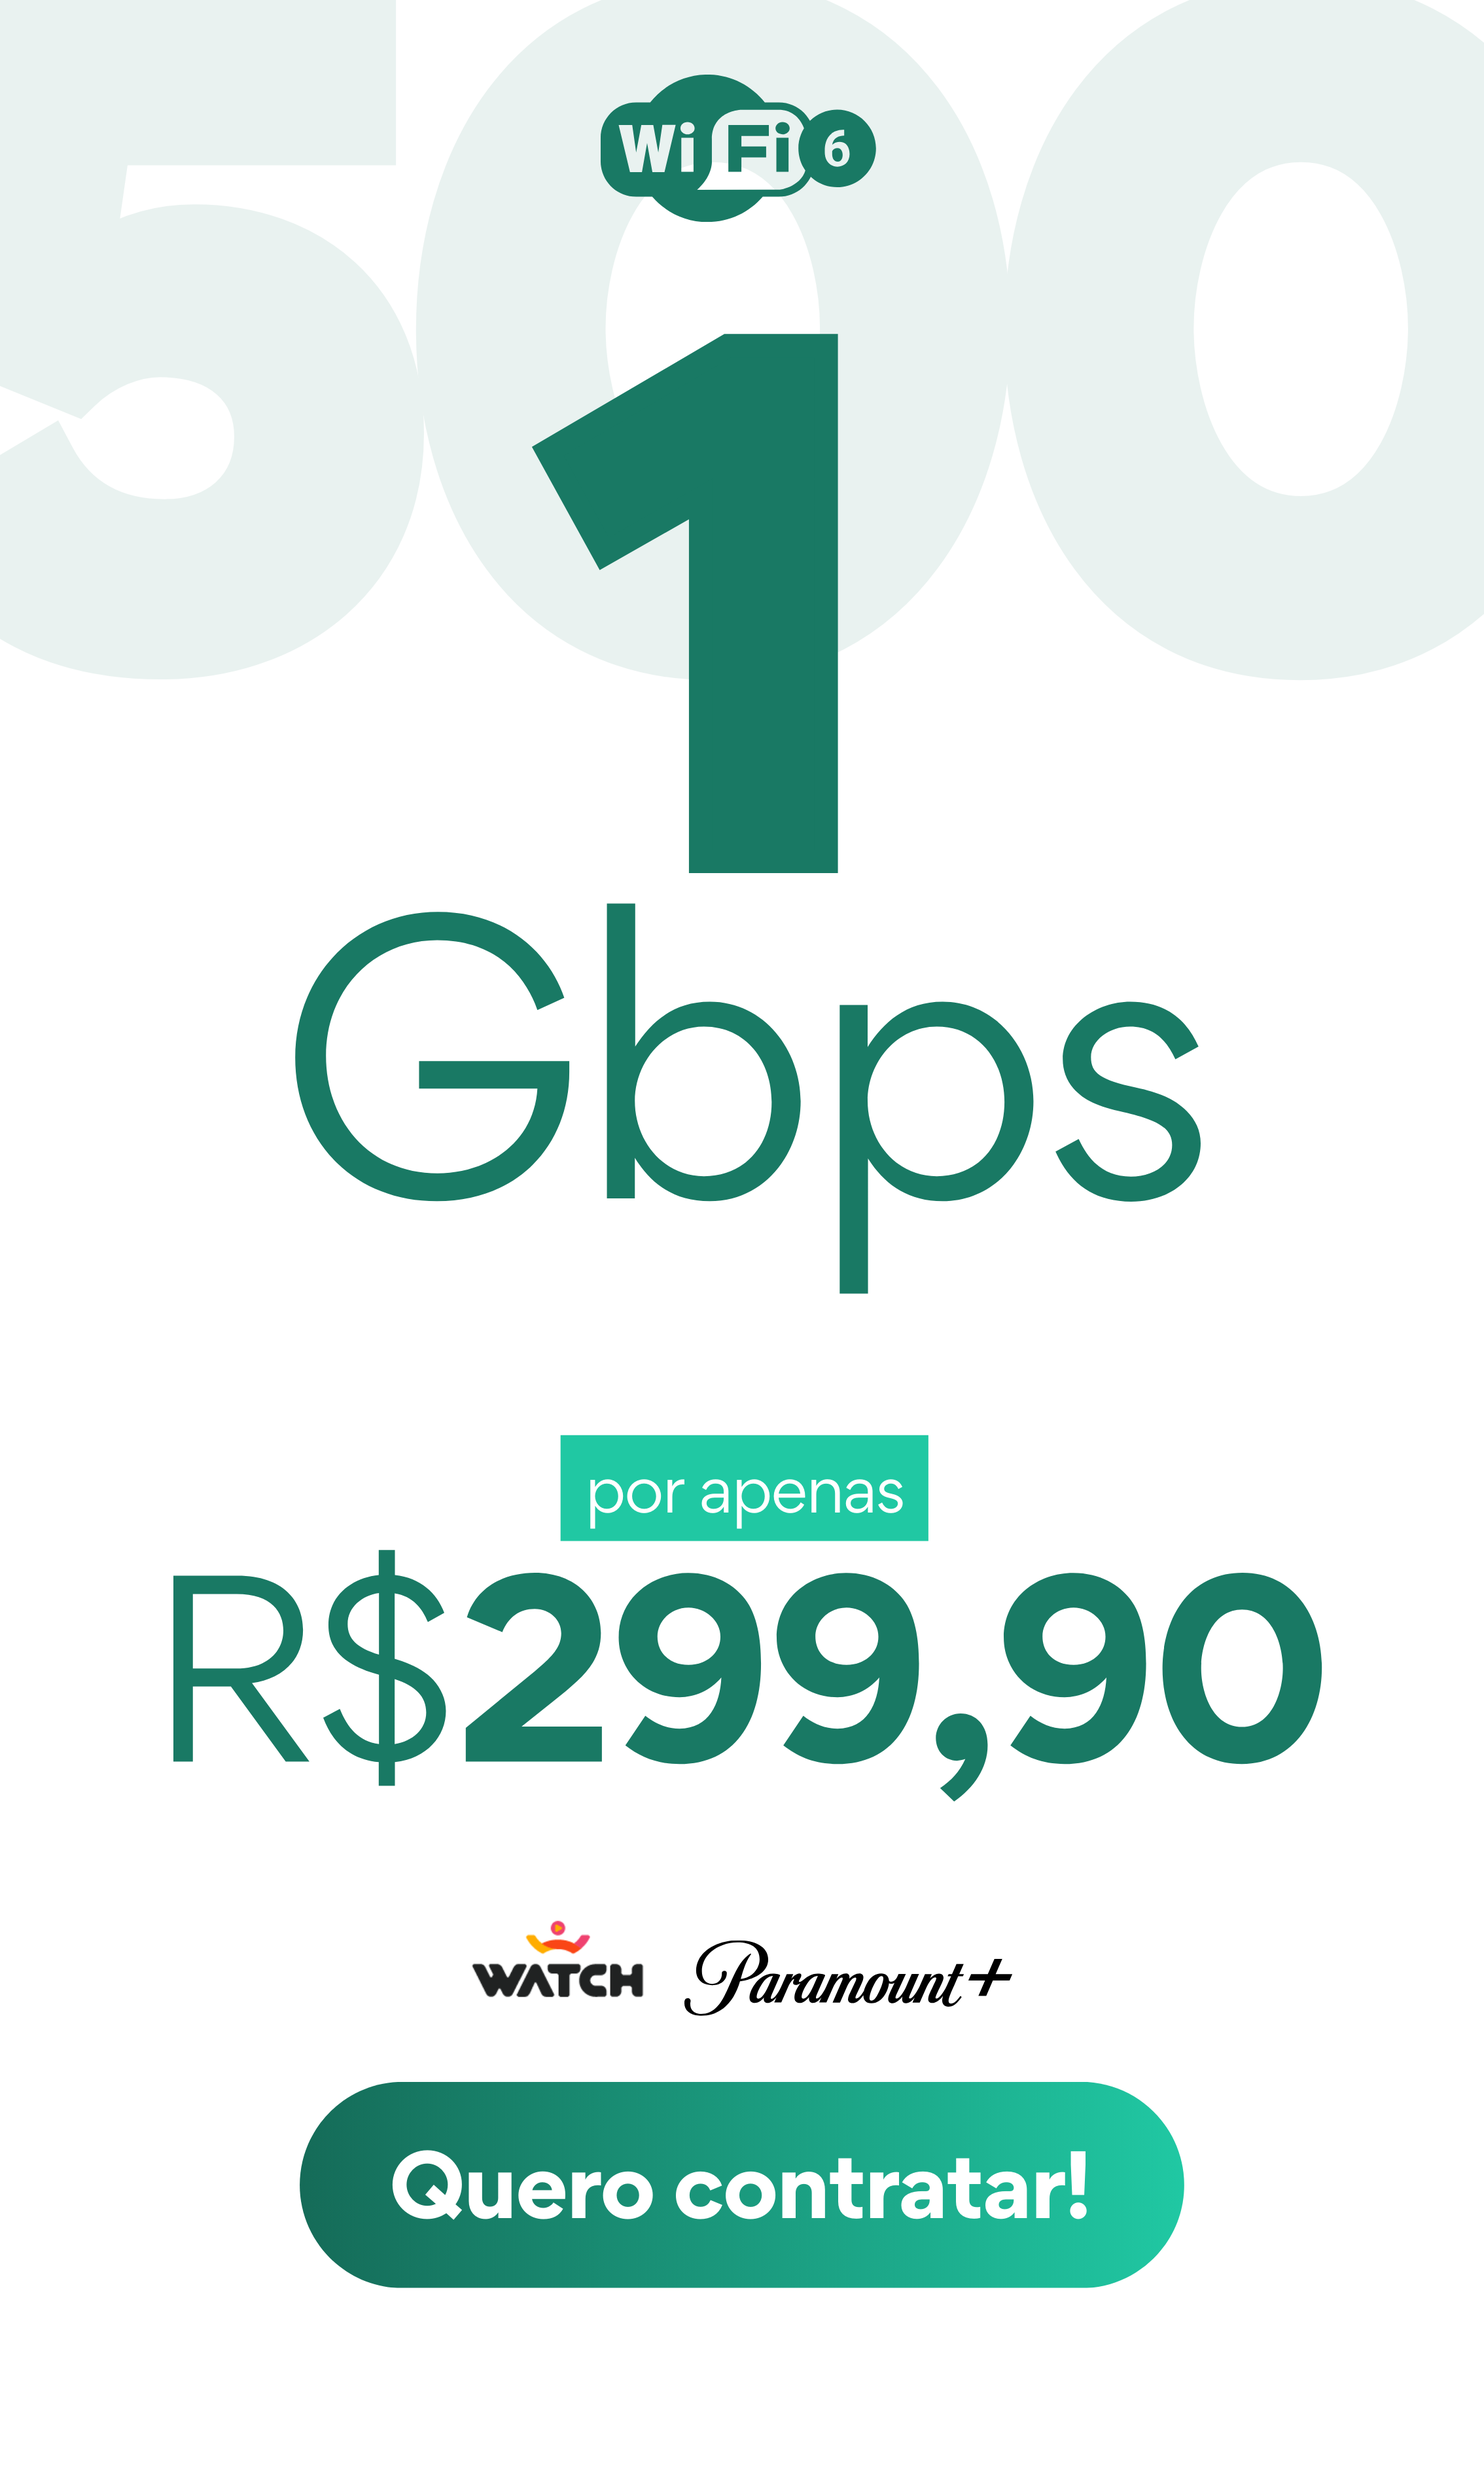
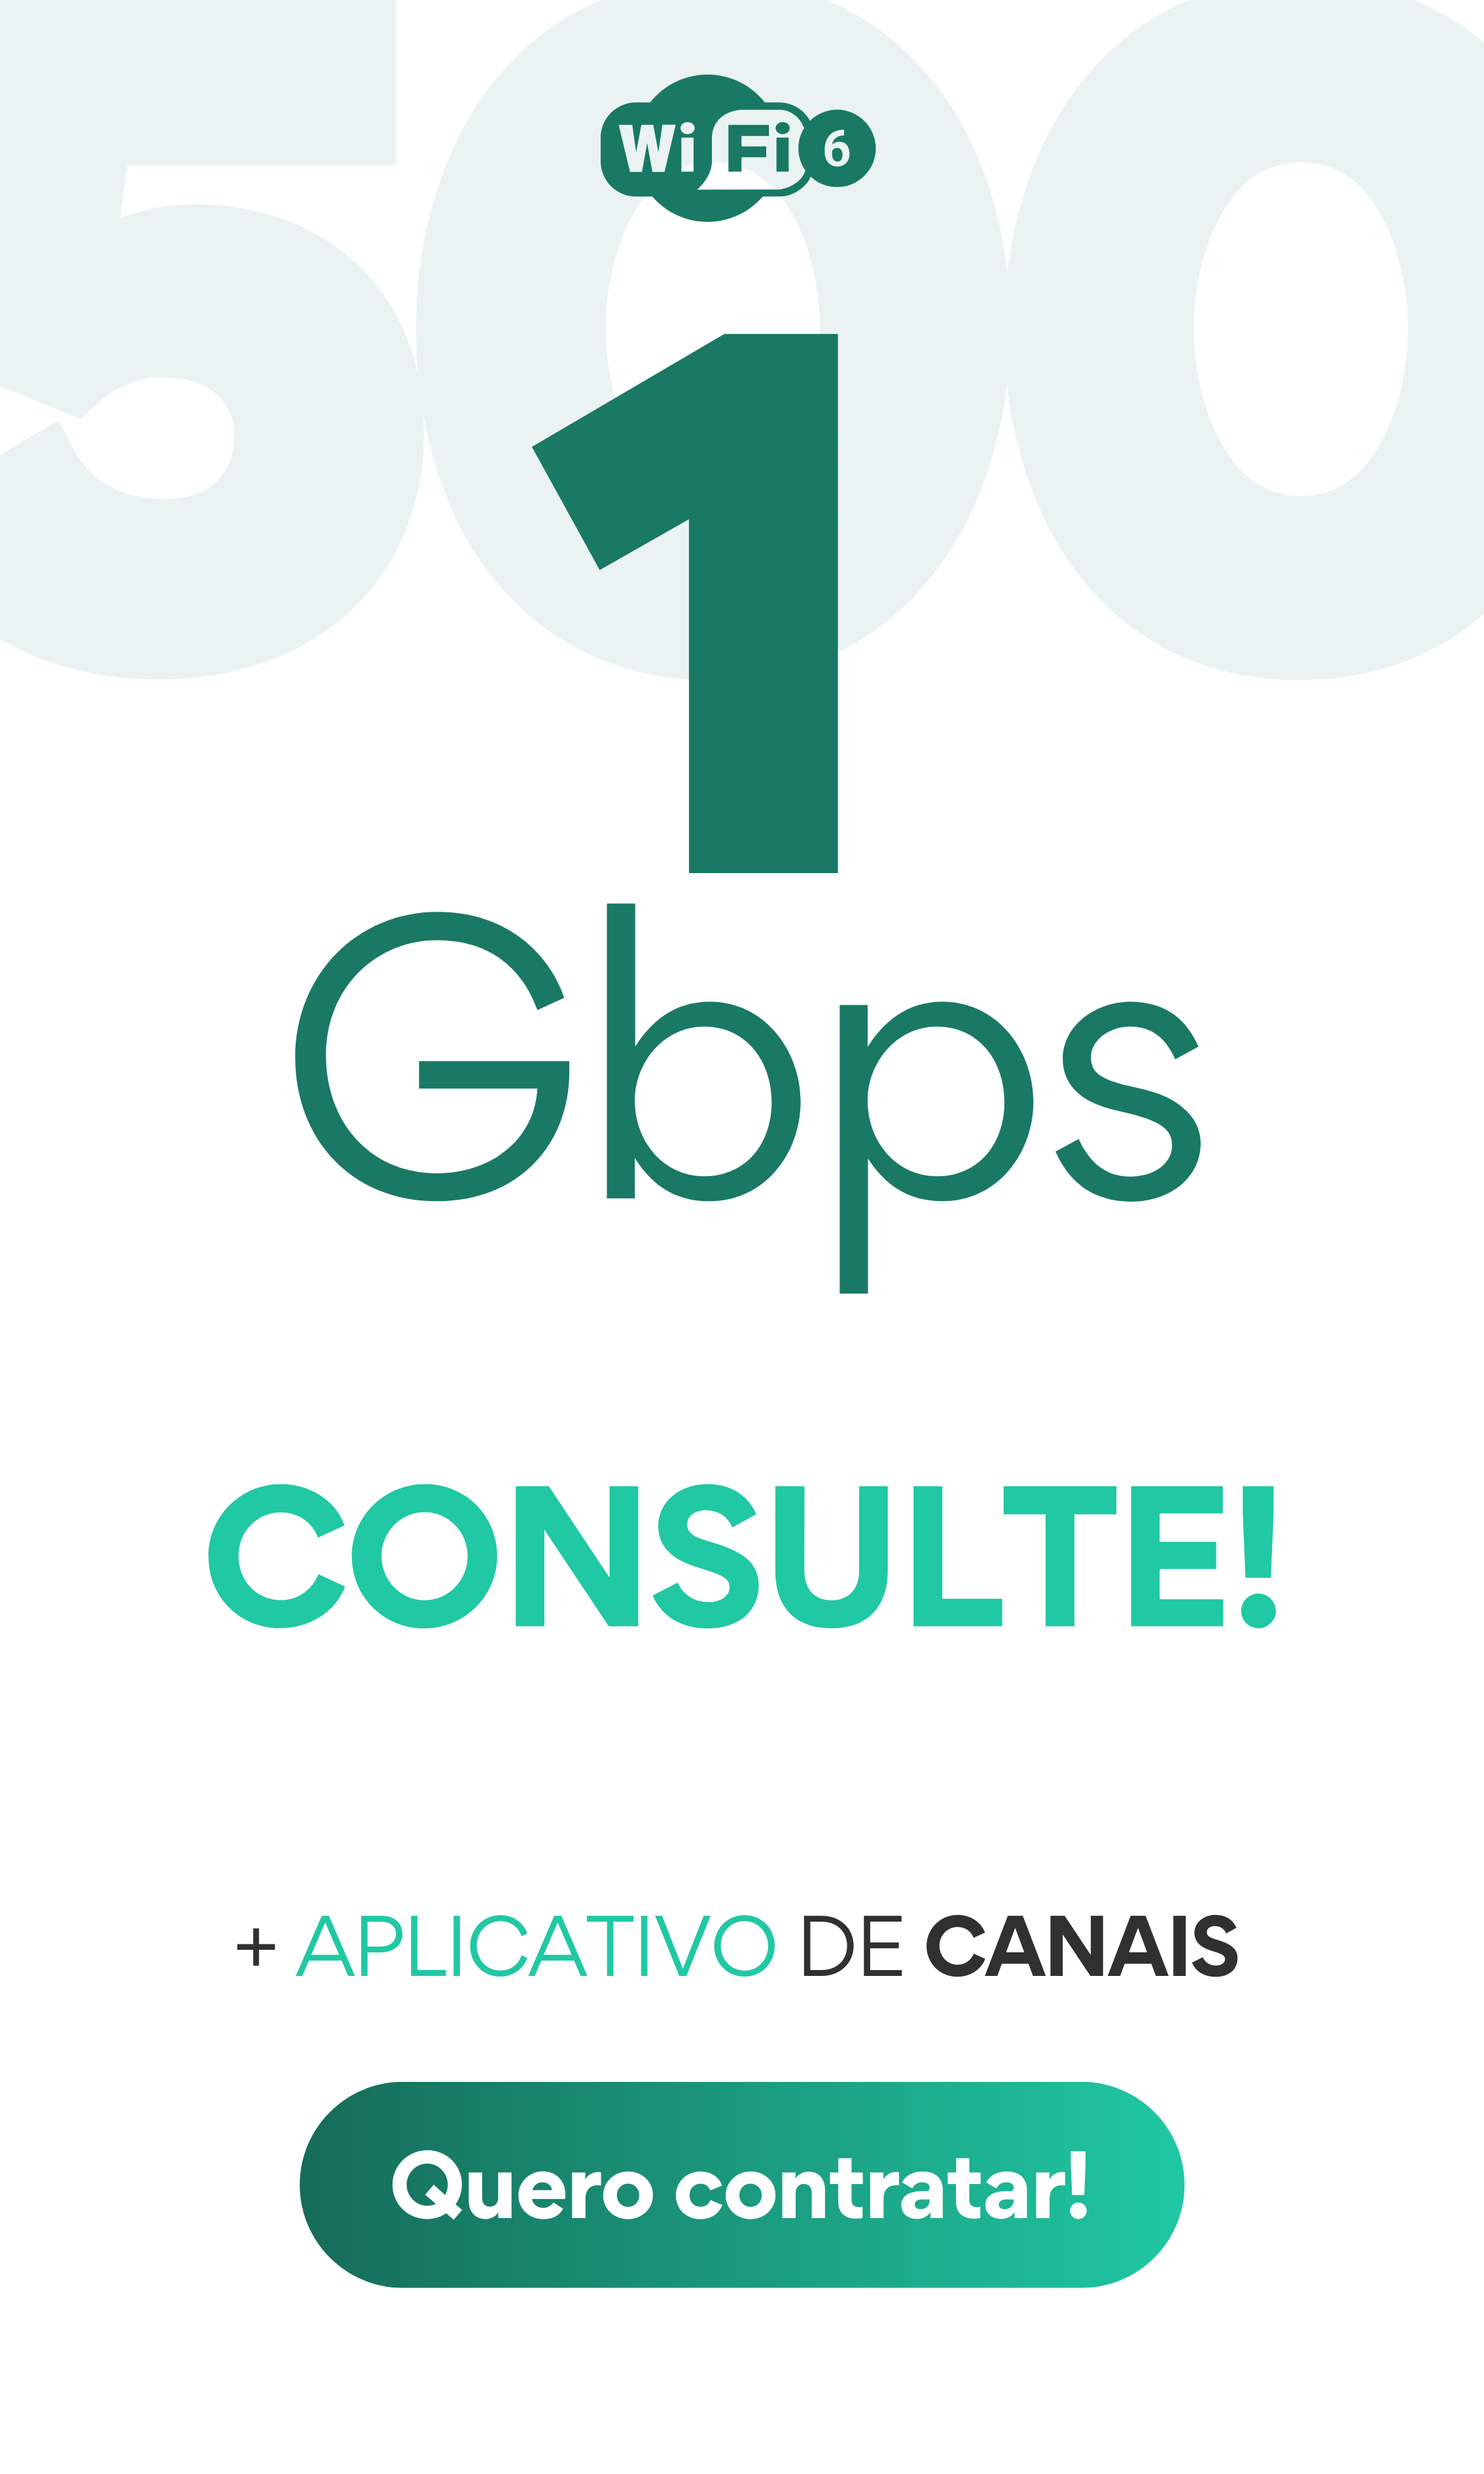
Ajuste de imagens dos planos.

Changed region(s): [[0.0926, 0.5619, 0.8951, 0.7492], [0.1543, 0.7492, 0.8333, 0.8116]]

diff --git a/src/index.html b/src/index.html
@@ -196,10 +196,19 @@
 }
 </script>
 
+<!-- Meta Pixel Code -->
+<script>
+  !function(f,b,e,v,n,t,s) {if(f.fbq)return;n=f.fbq=function(){n.callMethod? n.callMethod.apply(n,arguments):n.queue.push(arguments)}; if(!f._fbq)f._fbq=n;n.push=n;n.loaded=!0;n.version='2.0'; n.queue=[];t=b.createElement(e);t.async=!0; t.src=v;s=b.getElementsByTagName(e)[0]; s.parentNode.insertBefore(t,s)}(window, document,'script', 'https://connect.facebook.net/en_US/fbevents.js'); fbq('init', '1528133588052375'); fbq('track', 'PageView');
+</script>
+<!-- End Meta Pixel Code -->
+
 </head>
 
 <body>
   <app-root></app-root>
+  <noscript>
+    <img height="1" width="1" style="display:none" src="https://www.facebook.com/tr?id=1528133588052375&ev=PageView&noscript=1"/>
+  </noscript>
 </body>
 
 </html>

diff --git a/src/app/shared/model/plans.ts b/src/app/shared/model/plans.ts
@@ -50,12 +50,8 @@ export const configurationCarrousel = [
 
 export const serviceCards = [
     {
-    alt: 'imagem do serviço watch tv',
-    image: 'assets/cards-service/watchtv copy.png'
-    },
-    {
-    alt: 'imagem do serviço paramount plus',
-    image: 'assets/cards-service/paramout+.png'
+    alt: 'imagem do serviço de canais de tv',
+    image: 'assets/cards-service/canais_tv.png'
     },
     {
     alt: 'imagem do serviço wifi 6',

diff --git a/src/app/components/retain-attention/retain-attention.component.html b/src/app/components/retain-attention/retain-attention.component.html
@@ -1,4 +1,4 @@
-<div class="container-max d-flex flex-row justify-content-evenly flex-wrap gap-5 px-4 px-sm-5 py-6">
+<div class="container-max d-flex flex-row align-items-end justify-content-evenly flex-wrap gap-5 px-4 px-sm-5 py-6">
     @for (service of serviceCards; track $index) {
         <div style="max-width: 300px; position: relative;">
             <img [src]="service.image" [alt]="service.alt" class="w-100">
